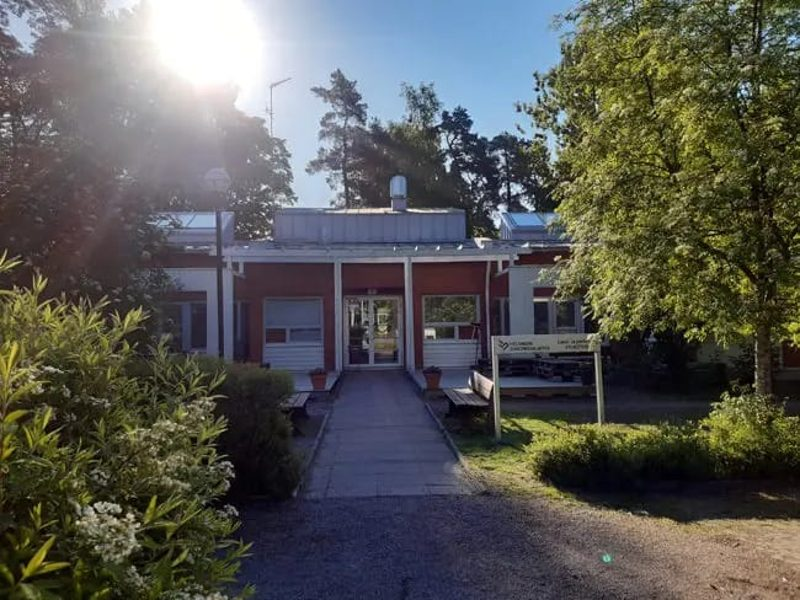
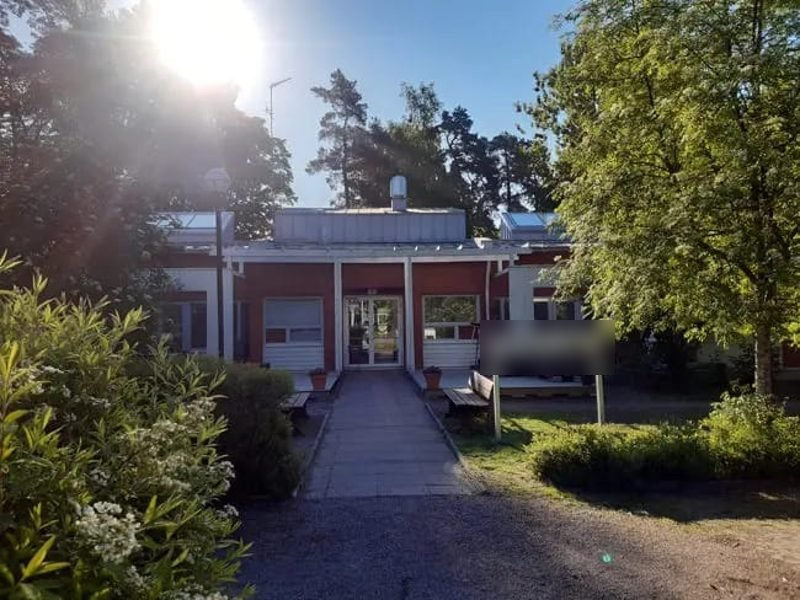
Fase 1: trajeto Solonópole → Fortaleza → Lisboa → Helsinque, Madrinha só fala português
Claude-Session: https://claude.ai/code/session_01UsNwCoiSaMh1Wsq2YM28Et

Changed region(s): [[0.5938, 0.51, 0.7812, 0.63]]

diff --git a/index.html b/index.html
@@ -113,7 +113,7 @@ const ITENS={
   brigadeiro:{e:'🍫',n:'Pote de brigadeiro',d:'Docinho que conquista qualquer um'},
   paodequeijo:{e:'🧀',n:'Pão de queijo',d:'O lanche oficial da madrinha'},
   cocada:{e:'🥥',n:'Cocada',d:'Direto do Nordeste'},
-  dicionario:{e:'📖',n:'Dicionário de finlandês',d:'Para conversar com os locais'}
+  foto:{e:'📸',n:'Foto com a Gabi',d:'Vale mais que mil palavras'}
 };
 
 /* ---------- Ilustrações ---------- */
@@ -149,6 +149,8 @@ function art(k){
     b=night()+stars(45,90,13)+aurora(-15)+castle(330,150,.45)+`<polygon points="0,140 115,130 125,220 0,220" fill="#2b3f6b"/><polygon points="0,140 115,130 112,138 0,148" fill="#eaf3fb"/><polygon points="285,130 400,138 400,220 278,220" fill="#2b3f6b"/><polygon points="285,130 400,138 400,146 288,138" fill="#eaf3fb"/><path d="M112 134 Q200 112 290 134 L290 142 Q200 122 112 142Z" fill="#a8dcff"/><g><circle cx="200" cy="96" r="28" fill="#f4f9ff"/><circle cx="200" cy="54" r="20" fill="#f4f9ff"/><circle cx="192" cy="50" r="3.5" fill="#2c6fd1"/><circle cx="208" cy="50" r="3.5" fill="#2c6fd1"/><path d="M191 61 Q200 67 209 61" stroke="#5a6b86" stroke-width="2.5" fill="none" stroke-linecap="round"/><path d="M172 90 L148 72" stroke="#f4f9ff" stroke-width="9" stroke-linecap="round"/><path d="M228 90 L252 72" stroke="#f4f9ff" stroke-width="9" stroke-linecap="round"/><circle cx="200" cy="92" r="3" fill="#9fd6ff"/><circle cx="200" cy="104" r="3" fill="#9fd6ff"/></g>`+snow(30,6);
   } else if(k==='castelo'){
     b=night('#060f26','#1c2f63')+stars(50,80,17)+aurora()+ground(186)+castle()+snow(40,12);
+  } else if(k==='estrada'){
+    b=`<defs><linearGradient id="sk" x1="0" y1="0" x2="0" y2="1"><stop offset="0" stop-color="#ffb35a"/><stop offset="1" stop-color="#ffe6a8"/></linearGradient></defs><rect width="400" height="220" fill="url(#sk)"/><circle cx="70" cy="52" r="28" fill="#fff4b8"/><path d="M0 150 Q100 135 200 148 T400 140 V220 H0Z" fill="#d9a35b"/><polygon points="150,220 250,220 206,150 194,150" fill="#5d5a63"/><path d="M200 220 L200 150" stroke="#ffd25a" stroke-width="2" stroke-dasharray="8 8"/>`+[[60,150],[330,146],[372,156]].map(([x,y])=>`<g fill="#4f8a3c"><rect x="${x-4}" y="${y-38}" width="8" height="40" rx="4"/><rect x="${x-16}" y="${y-28}" width="7" height="18" rx="3.5"/><rect x="${x+9}" y="${y-32}" width="7" height="20" rx="3.5"/><rect x="${x-16}" y="${y-14}" width="16" height="6" rx="3"/><rect x="${x}" y="${y-16}" width="16" height="6" rx="3"/></g>`).join('')+`<g transform="translate(200 182)"><rect x="-26" y="-14" width="52" height="18" rx="6" fill="#e8474f"/><path d="M-16 -14 L-10 -26 H12 L18 -14Z" fill="#e8474f"/><path d="M-11 -15 L-7 -23 H9 L13 -15Z" fill="#bfe6ff"/><circle cx="-14" cy="5" r="6" fill="#222b3d"/><circle cx="14" cy="5" r="6" fill="#222b3d"/></g><text x="14" y="210" font-size="13" fill="#5a3a1a" font-weight="bold">Solonópole → Fortaleza</text>`;
   } else if(k==='fim1'){
     b=night('#0a1838','#2b4680')+stars(60,110,21)+aurora(-10)+aurora(20)+ground(190)+heart(70,60,1.6)+heart(310,80,1.2,'#ffd25a')+heart(110,120,.9,'#5ee6b8')+heart(280,40,.9)+house(150,100,60,'#c9564a')+`<text x="168" y="212" font-size="22">🇧🇷💛🇫🇮</text>`+snow(30,4);
   } else if(k==='final'){
@@ -175,17 +177,28 @@ const doce=()=>DOCES.find(has);
 
 const SC={
   mensagem:{bg:'casa',
-    text:()=>[`Tarde de sol forte no <b>Nordeste do Brasil</b>. A <b>Madrinha Ana</b>, de cabelo preso e leque na mão, toma um cafezinho na varanda quando o celular vibra.`,
+    text:()=>[`Tarde de sol rachando em <b>Solonópole, no sertão do Ceará</b>. 38 °C na sombra! A <b>Madrinha Ana</b>, de cabelo preso e leque na mão, toma um cafezinho na varanda quando o celular vibra.`,
       `É uma mensagem de <b>${N()}</b>, a afilhada loura de cabelo liso, filha da irmã dela com um finlandês, que mora do outro lado do mundo, em <b>Helsinque</b>:`,
-      say('gabi',`“Madrinha, socorro! 😱 Estou presa num lugar aqui em Helsinque e não consigo sair! Só você pode me ajudar!”`),
-      `Ana larga a xícara na hora. Ninguém mexe com a afilhada dela!`],
+      say('gabi',`“Madrinha, socorro! 😱 Estou longe de casa e do papai e da mamãe, num lugar aqui em Helsinque, e não posso sair. Que saudade! Só você pode me ajudar!”`),
+      `Ana larga a xícara na hora. Faltam poucos dias para o aniversário dela, <b>12 de outubro</b>, e o único presente que ela quer é ver a afilhada. Só tem um probleminha: a Madrinha só fala português. Mas isso nunca parou a Madrinha Ana!`],
     choices:()=>[{t:'🧳 Arrumar a mala agora mesmo',go:'mala'}]},
 
-  voo:{bg:'aviao',
-    text:()=>[`Do Nordeste até Helsinque são duas conexões e mais de vinte horas de viagem. Ana olha pela janelinha o mar de nuvens e pensa em ${N()}.`,
-      `Ela sabe que o pai da afilhada é finlandês, e que ela não entende nada do idioma. Como usar o tempo de voo?`],
-    choices:()=>[{t:has('dicionario')?'📖 Estudar finlandês no dicionário':'🧑🤝🧑 Aprender frases com o passageiro ao lado',go:'helsinque',fx:()=>{S.flags.fi=true;badge('🗣 Poliglota')}},
-      {t:'😴 Dormir até pousar',go:'helsinque'}]},
+  estrada:{bg:'estrada',
+    text:()=>[`Primeiro desafio: sair de Solonópole e chegar ao aeroporto de <b>Fortaleza</b>. Ana pega o carro e encara quase 300 km de estrada pelo sertão, com o rádio tocando forró. 🚗`,
+      `No meio do caminho, uma barraquinha na beira da estrada: tapioca quentinha e queijo coalho na brasa...`],
+    choices:()=>[{t:'🫓 Parar para comer uma tapioca',go:'fortaleza',fx:()=>S.flags.tapioca=true},
+      {t:'💨 Seguir direto, a Gabi está esperando!',go:'fortaleza'}]},
+
+  fortaleza:{bg:'aviao',
+    text:()=>[S.flags.tapioca?`Barriga cheia de tapioca, Ana chega ao aeroporto de Fortaleza bem a tempo!`:`Ana chega ao aeroporto de Fortaleza tão adiantada que ainda dá tempo de um cafezinho.`,
+      `O avião decola de <b>Fortaleza, no Brasil</b>, e cruza o Oceano Atlântico rumo a <b>Lisboa, em Portugal</b>. Lá embaixo, só mar azul. ✈`],
+    choices:()=>[{t:'🛬 Pousar em Lisboa',go:'lisboa'}]},
+
+  lisboa:{bg:'aviao',
+    text:()=>[`<b>Lisboa!</b> Ana troca de avião: o próximo voo vai de Portugal até <b>Helsinque, na Finlândia</b>. Aqui ainda todo mundo fala português, que alívio! 🇵🇹`,
+      `No portão de embarque, Ana senta ao lado de uma cearense simpática, a <b>Dona Socorro</b>, que mora na Finlândia há vinte anos.`],
+    choices:()=>[{t:'💬 Puxar conversa com a Dona Socorro',go:'helsinque',fx:()=>{S.flags.fi=true;S.flags.socorro=true;badge('📝 Bilhete mágico')}},
+      {t:'🥐 Comer um pastel de nata e dormir o voo todo',go:'helsinque'}]},
 
   helsinque:{bg:'fora',
     enter:()=>{S.calor-=has('casaco')?8:20},
@@ -195,17 +208,20 @@ const SC={
     choices:()=>[{t:'🚪 Bater na porta da frente',go:'porta'},{t:'🌿 Dar a volta e procurar a janela da afilhada',go:'janela'}]},
 
   porta:{bg:'fora',
-    text:()=>[`Ana toca a campainha. Uma funcionária aparece do outro lado da porta de vidro. Ela fala finlandês e olha desconfiada para aquela brasileira de casaco no meio do verão.`,
-      `Pela fresta, ela avisa: <i>“Ei vierailuja tänään!”</i> Pelo jeito, hoje não tem visita.`],
+    text:()=>[...(S.flags.socorro?[`(Antes de se despedir, Dona Socorro escreveu num papelzinho, em finlandês: <i>“Olen Gabin kummitäti”</i>, que quer dizer <b>“Sou a madrinha da Gabi”</b>.)`]:[]),
+      `Ana toca a campainha. Uma funcionária aparece do outro lado da porta de vidro. Ela fala finlandês e olha desconfiada para aquela brasileira de casaco no meio do verão.`,
+      `Pela fresta, ela diz alguma coisa: <i>“Ei vierailuja tänään!”</i> Ana não entende uma palavra, mas pela cara... hoje não tem visita.`],
     choices:()=>[
-      ...(S.flags.fi?[{t:'🗣 Dizer “Hei! Olen Gabin kummitäti!” (Oi! Sou a madrinha da Gabi!)',go:'porta2',fx:()=>S.flags.via='finlandes'}]:[]),
+      ...(S.flags.fi?[{t:'📝 Mostrar o papelzinho da Dona Socorro',go:'porta2',fx:()=>S.flags.via='bilhete'}]:[]),
+      ...(has('foto')?[{t:'📸 Mostrar a foto dela com a Gabi',go:'porta2',fx:()=>{S.flags.via='foto';badge('📸 Prova de amor')}}]:[]),
       ...(doce()?[{t:`${ITENS[doce()].e} Oferecer ${ITENS[doce()].n.toLowerCase()} à funcionária`,go:'porta2',fx:()=>{S.flags.via='doce';badge('🍬 Doceira de mão cheia')}}]:[]),
-      {t:'🤝 Explicar em português, com muitos gestos',go:'porta2',fx:()=>{S.flags.via='gestos';S.calor-=5}}]},
+      {t:'🗣 Explicar tudo em português, bem alto e com muitos gestos',go:'porta2',fx:()=>{S.flags.via='gestos';S.calor-=5}}]},
 
   porta2:{bg:'fora',
-    text:()=>[S.flags.via==='finlandes'?`A funcionária arregala os olhos: <i>“Ahh, Gabin kummi!”</i> Ela sorri, mas balança a cabeça: a porta só abre amanhã. Baixinho, ela aponta para o jardim: <i>“Ikkuna...”</i> (a janela). 🇫🇮`
-      :S.flags.via==='doce'?`A funcionária prova, fecha os olhos e suspira: <i>“Herkullista!”</i> (delicioso!). Não pode abrir a porta, mas faz um sinal discreto: dê a volta pelo jardim. 😉`
-      :`A funcionária não entende nada da mímica, ri educadamente e fecha a porta. Ana fica sozinha no vento gelado. Hora de outro plano!`],
+    text:()=>[S.flags.via==='bilhete'?`A funcionária lê o papel e arregala os olhos: <i>“Ahh, Gabin kummi!”</i> Ela sorri, mas balança a cabeça: a porta só abre amanhã. Baixinho, ela aponta para o jardim. 🇫🇮`
+      :S.flags.via==='foto'?`A funcionária olha a foto, olha para Ana, olha a foto de novo... e sorri. Reconheceu a Gabi! Não pode abrir a porta, mas aponta discretamente para o jardim. 😉`
+      :S.flags.via==='doce'?`A funcionária prova, fecha os olhos e suspira: <i>“Herkullista!”</i> Ana não sabe o que é, mas parece elogio! Ela não pode abrir a porta, mas faz um sinal: dê a volta pelo jardim. 😉`
+      :`Quanto mais alto Ana fala, menos a funcionária entende. Ela ri educadamente e fecha a porta. Ana fica sozinha no vento gelado. Hora de outro plano!`],
     choices:()=>[{t:'🌿 Dar a volta pelo jardim',go:'janela'}]},
 
   janela:{bg:'fora',
@@ -218,22 +234,22 @@ const SC={
     enter:()=>{S.calor+=20;badge('💛 Tão perto!');if(S.calor>=60)badge('🧣 À prova de frio')},
     text:()=>[`Lá dentro, uma sala de sofás azuis e tapete de folhas. No sofá, uma menina loura de cabelo liso levanta a cabeça... é <b>${N()}</b>! 💛`,
       `Ela corre até a janela e encosta a mão no vidro. Ana encosta a dela do outro lado. Só um vidro separa as duas.`,
-      say('gabi',`“Madrinha!! Você veio mesmo! Eu não consigo sair... mas descobri uma coisa. Olha!”`)],
+      say('gabi',`“Madrinha!! Você veio mesmo! Eu não posso sair agora... mas olha só!”`)],
     choices:()=>[...(has('lanterna')?[{t:'🔦 Piscar a lanterna em código: “estou aqui”',go:'bilhete',fx:()=>badge('🔦 Código de luz')}]:[]),
       {t:'✋ Fazer sinal de “estou aqui” e esperar',go:'bilhete'}]},
 
   bilhete:{bg:'sala',
-    text:()=>[`${N()} sopra no vidro e desenha com o dedo: uma <b>chave</b> 🗝 e uma seta apontando para longe.`,
-      `Depois ela cola um bilhetinho na janela: <i>“A chave não está aqui. Encontre-a e volte por mim!”</i>`,
+    text:()=>[`${N()} sopra no vidro e desenha com o dedo: um <b>coração</b> e um <b>sol</b>, igualzinho ao sol do Ceará. ☀💛`,
+      `Depois ela cola um bilhetinho na janela: <i>“Madrinha, a porta só abre amanhã. Volte, tá? Tenho tanta coisa pra te contar!”</i>`,
       `Nessa hora, passos no corredor! ${N()} manda um beijo e volta correndo para o sofá. A luz da sala se apaga.`],
-    choices:()=>[{t:'🗝 Guardar a pista no coração',go:'fim'}]},
+    choices:()=>[{t:'💛 Prometer que volta amanhã',go:'fim'}]},
 
   fim:{bg:'fim1',
     enter:()=>{try{localStorage.setItem('madrinha-fase1','1')}catch(e){}},
     text:()=>[`Ana atravessou o oceano, enfrentou o vento gelado e encontrou ${N()}. Chegou <b>tão perto</b>, a um vidro de distância! 💛`,
-      `Mas a afilhada ainda não está livre. Agora Ana tem uma pista: uma chave escondida em algum lugar de Helsinque.`,
-      say('ana',`“${ANA.frase} Me espera, ${N()}: eu vou achar essa chave!”`),
-      `<span class="frozen">🗺 <b>Próximas fases</b><br>🔒 Fase 2: A chave perdida<br>🔒 Fase 3: ???<br>🔒 Fase 4: ???</span>`],
+      `Mas ainda não foi dessa vez que as duas puderam ficar juntinhas. A porta só abre amanhã, e até lá a Madrinha precisa achar um lugar quentinho para passar a noite em Helsinque.`,
+      say('ana',`“${ANA.frase} Me espera, ${N()}: amanhã eu volto!”`),
+      `<span class="frozen">🗺 <b>Próximas fases</b><br>🔒 Fase 2: O dia da visita<br>🔒 Fase 3: ???<br>🔒 Fase 4: ???</span>`],
     choices:()=>[], end:true}
 };
 
@@ -263,7 +279,7 @@ function go(id){
   const choices=sc.choices();
   let html=`<div class="art">${art(sc.bg)}</div><div class="body"><div class="text">${paras.map((p,i)=>`<p class="in" style="animation-delay:${i*.08}s">${p}</p>`).join('')}</div>`;
   if(sc.end){
-    html+=`<div class="end"><h3>🏁 Fim da Fase 1</h3><p>Conquistas: <b>${conqSaved().length} de 6</b> desbloqueadas. Jogue de novo com outros itens para descobrir todas!</p><div class="badges">${S.conq.map(x=>`<span>${x}</span>`).join('')}</div><button class="btn main" id="again">Jogar de novo</button></div>`;
+    html+=`<div class="end"><h3>🏁 Fim da Fase 1</h3><p>Conquistas: <b>${conqSaved().length} de 7</b> desbloqueadas. Jogue de novo com outros itens para descobrir todas!</p><div class="badges">${S.conq.map(x=>`<span>${x}</span>`).join('')}</div><button class="btn main" id="again">Jogar de novo</button></div>`;
   } else {
     html+=`<div class="choices">${choices.map((c,i)=>`<button data-i="${i}">${c.t}</button>`).join('')}</div>`;
   }
@@ -276,7 +292,7 @@ function go(id){
 }
 
 function renderMala(){
-  const opts=['casaco','lanterna','brigadeiro','paodequeijo','cocada','dicionario'];
+  const opts=['casaco','lanterna','brigadeiro','paodequeijo','cocada','foto'];
   const sel=new Set();
   app.innerHTML=`<div class="art">${art('casa')}</div><div class="body"><div class="text"><p class="in">Ana abre a mala em cima da cama. Mas é uma mala de mão: <b>só cabem 3 coisas</b>. O que levar para a Finlândia? Cada escolha muda a aventura!</p></div><div class="items">${opts.map(k=>`<button class="item" aria-pressed="false" data-k="${k}"><span class="e">${ITENS[k].e}</span><b>${ITENS[k].n}</b><small>${ITENS[k].d}</small></button>`).join('')}</div><button class="btn main" id="fechar" disabled>Escolha 3 itens (0 de 3)</button></div>`;
   const btn=document.getElementById('fechar');
@@ -285,7 +301,7 @@ function renderMala(){
     else if(sel.size<3){sel.add(k);b.setAttribute('aria-pressed','true')}
     else{toast('A mala está cheia! Tire algo antes.');return}
     btn.disabled=sel.size!==3;btn.textContent=sel.size===3?'✅ Fechar a mala e partir!':`Escolha 3 itens (${sel.size} de 3)`});
-  btn.onclick=()=>{S.inv=[...sel];go('voo');scrollTop()};
+  btn.onclick=()=>{S.inv=[...sel];go('estrada');scrollTop()};
   updateHud();
 }
 SC.mala={};const _go=go;go=function(id){if(id==='mala')return renderMala();_go(id)};
@@ -293,7 +309,7 @@ SC.mala={};const _go=go;go=function(id){if(id==='mala')return renderMala();_go(i
 function startScreen(nome){
   reset(nome);hud.hidden=true;
   const n=conqSaved().length;
-  app.innerHTML=`<div class="art">${art('casa')}</div><div class="body start"><h2>Madrinha Ana ao Resgate</h2><p><b>Fase 1.</b> Você é a <b>Madrinha Ana</b>! A Gabi está presa em Helsinque, na Finlândia, e só a Madrinha Ana pode ajudar. Mas ela está no calor do Nordeste do Brasil, do outro lado do mundo!</p><label for="nome">Nome da afilhada</label><input id="nome" maxlength="24" value="${esc(nome||'Gabi')}" autocomplete="off"><p class="hint">Fique de olho no termômetro lá em cima: o frio de Helsinque é de rachar!${n?` Conquistas: ${n} de 6.`:''}</p><button class="btn main" id="start">❄ Começar a aventura</button><p class="hint" style="text-align:center"><a href="arcade.html" style="color:inherit">Modo arcade: salve a turma do calor</a></p></div>`;
+  app.innerHTML=`<div class="art">${art('casa')}</div><div class="body start"><h2>Madrinha Ana ao Resgate</h2><p><b>Fase 1.</b> Você é a <b>Madrinha Ana</b>! A Gabi está presa em Helsinque, na Finlândia, e só a Madrinha Ana pode ajudar. Mas ela está em Solonópole, no sertão do Ceará, do outro lado do mundo, e só fala português!</p><label for="nome">Nome da afilhada</label><input id="nome" maxlength="24" value="${esc(nome||'Gabi')}" autocomplete="off">${(()=>{const d=new Date();return d.getMonth()===9&&d.getDate()===12?'<p class="msg" style="display:block">🎂 Hoje é aniversário da Madrinha Ana e Dia das Crianças! Parabéns, Madrinha! 🎉</p>':''})()}<p class="hint">Fique de olho no termômetro lá em cima: o frio de Helsinque é de rachar!${n?` Conquistas: ${n} de 7.`:''}</p><button class="btn main" id="start">❄ Começar a aventura</button><p class="hint" style="text-align:center"><a href="arcade.html" style="color:inherit">Modo arcade: salve a turma do calor</a></p></div>`;
   const inp=document.getElementById('nome');
   const begin=()=>{S.nome=inp.value;go('mensagem');scrollTop()};
   document.getElementById('start').onclick=begin;

diff --git a/README.md b/README.md
@@ -1,11 +1,11 @@
 # Madrinha Ana ao Resgate 🇧🇷💛🇫🇮
 
-Um presente para a Gabi. Você é a Madrinha Ana, que sai do calor do Nordeste do Brasil para resgatar a afilhada Gabi, presa num lugar em Helsinque.
+Um presente para a Gabi. Você é a Madrinha Ana, que sai do calor do Nordeste do Brasil (Solonópole, Ceará) para resgatar a afilhada Gabi, presa num lugar em Helsinque.
 
 ## Como jogar
 Abra `index.html` no navegador (computador ou celular). Mantenha a pasta `img/` junto do arquivo.
 
-- **Fase 1:** a Madrinha recebe o pedido de socorro, escolhe 3 itens para a mala, viaja até Helsinque e chega bem perto da Gabi. Mas a aventura continua…
+- **Fase 1:** de Solonópole (CE), de carro até Fortaleza, avião para Lisboa e depois Helsinque. A Madrinha recebe o pedido de socorro, escolhe 3 itens para a mala, viaja até Helsinque e chega bem perto da Gabi. Mas a aventura continua…
 - Fique de olho no termômetro de calor: o frio finlandês é de rachar!
 - Cada combinação de itens muda o caminho. São 6 conquistas para colecionar.
 - `arcade.html`: minijogo extra de ação (salve a turma do calor).
